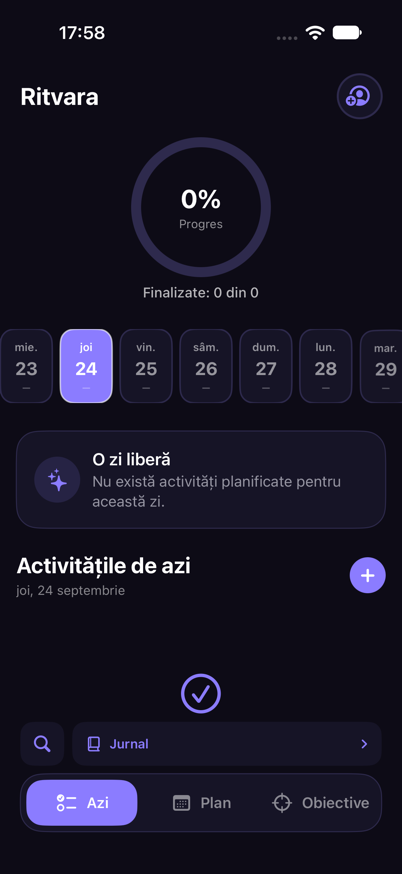
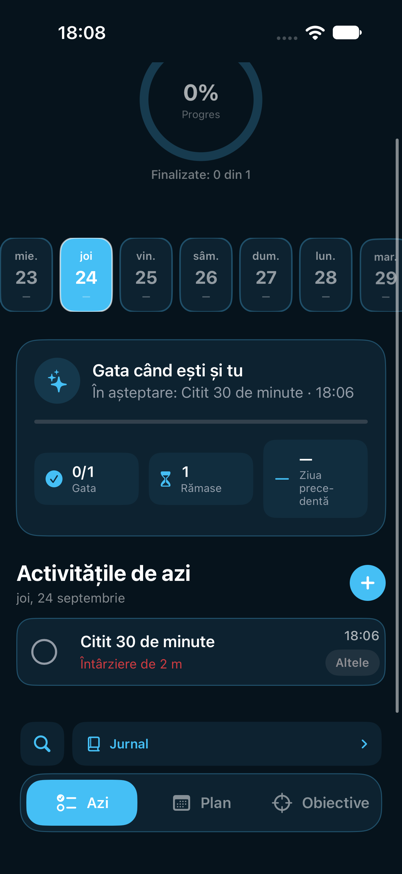
Add richer app screenshots to README

diff --git a/README.md b/README.md
@@ -27,6 +27,8 @@ Proiectul a evoluat treptat de la o listă de activități la o aplicație care 
 | Astăzi | Plan săptămânal |
 |---|---|
 | <img src="Documentation/Screenshots/dashboard.png" width="280" alt="Ecranul Astăzi din Ritvara"> | <img src="Documentation/Screenshots/weekly-plan.png" width="280" alt="Planul săptămânal din Ritvara"> |
+| Obiective | Rutine |
+| <img src="Documentation/Screenshots/goals.png" width="280" alt="Ecranul Obiective din Ritvara"> | <img src="Documentation/Screenshots/routines.png" width="280" alt="Ecranul Rutine din Ritvara"> |
 
 ## Tehnologii folosite
 
@@ -104,6 +106,8 @@ The project gradually grew from a simple task list into an application with rout
 | Today | Weekly plan |
 |---|---|
 | <img src="Documentation/Screenshots/dashboard.png" width="280" alt="Ritvara Today screen"> | <img src="Documentation/Screenshots/weekly-plan.png" width="280" alt="Ritvara weekly plan"> |
+| Goals | Routines |
+| <img src="Documentation/Screenshots/goals.png" width="280" alt="Ritvara Goals screen"> | <img src="Documentation/Screenshots/routines.png" width="280" alt="Ritvara Routines screen"> |
 
 ### Technologies
 
